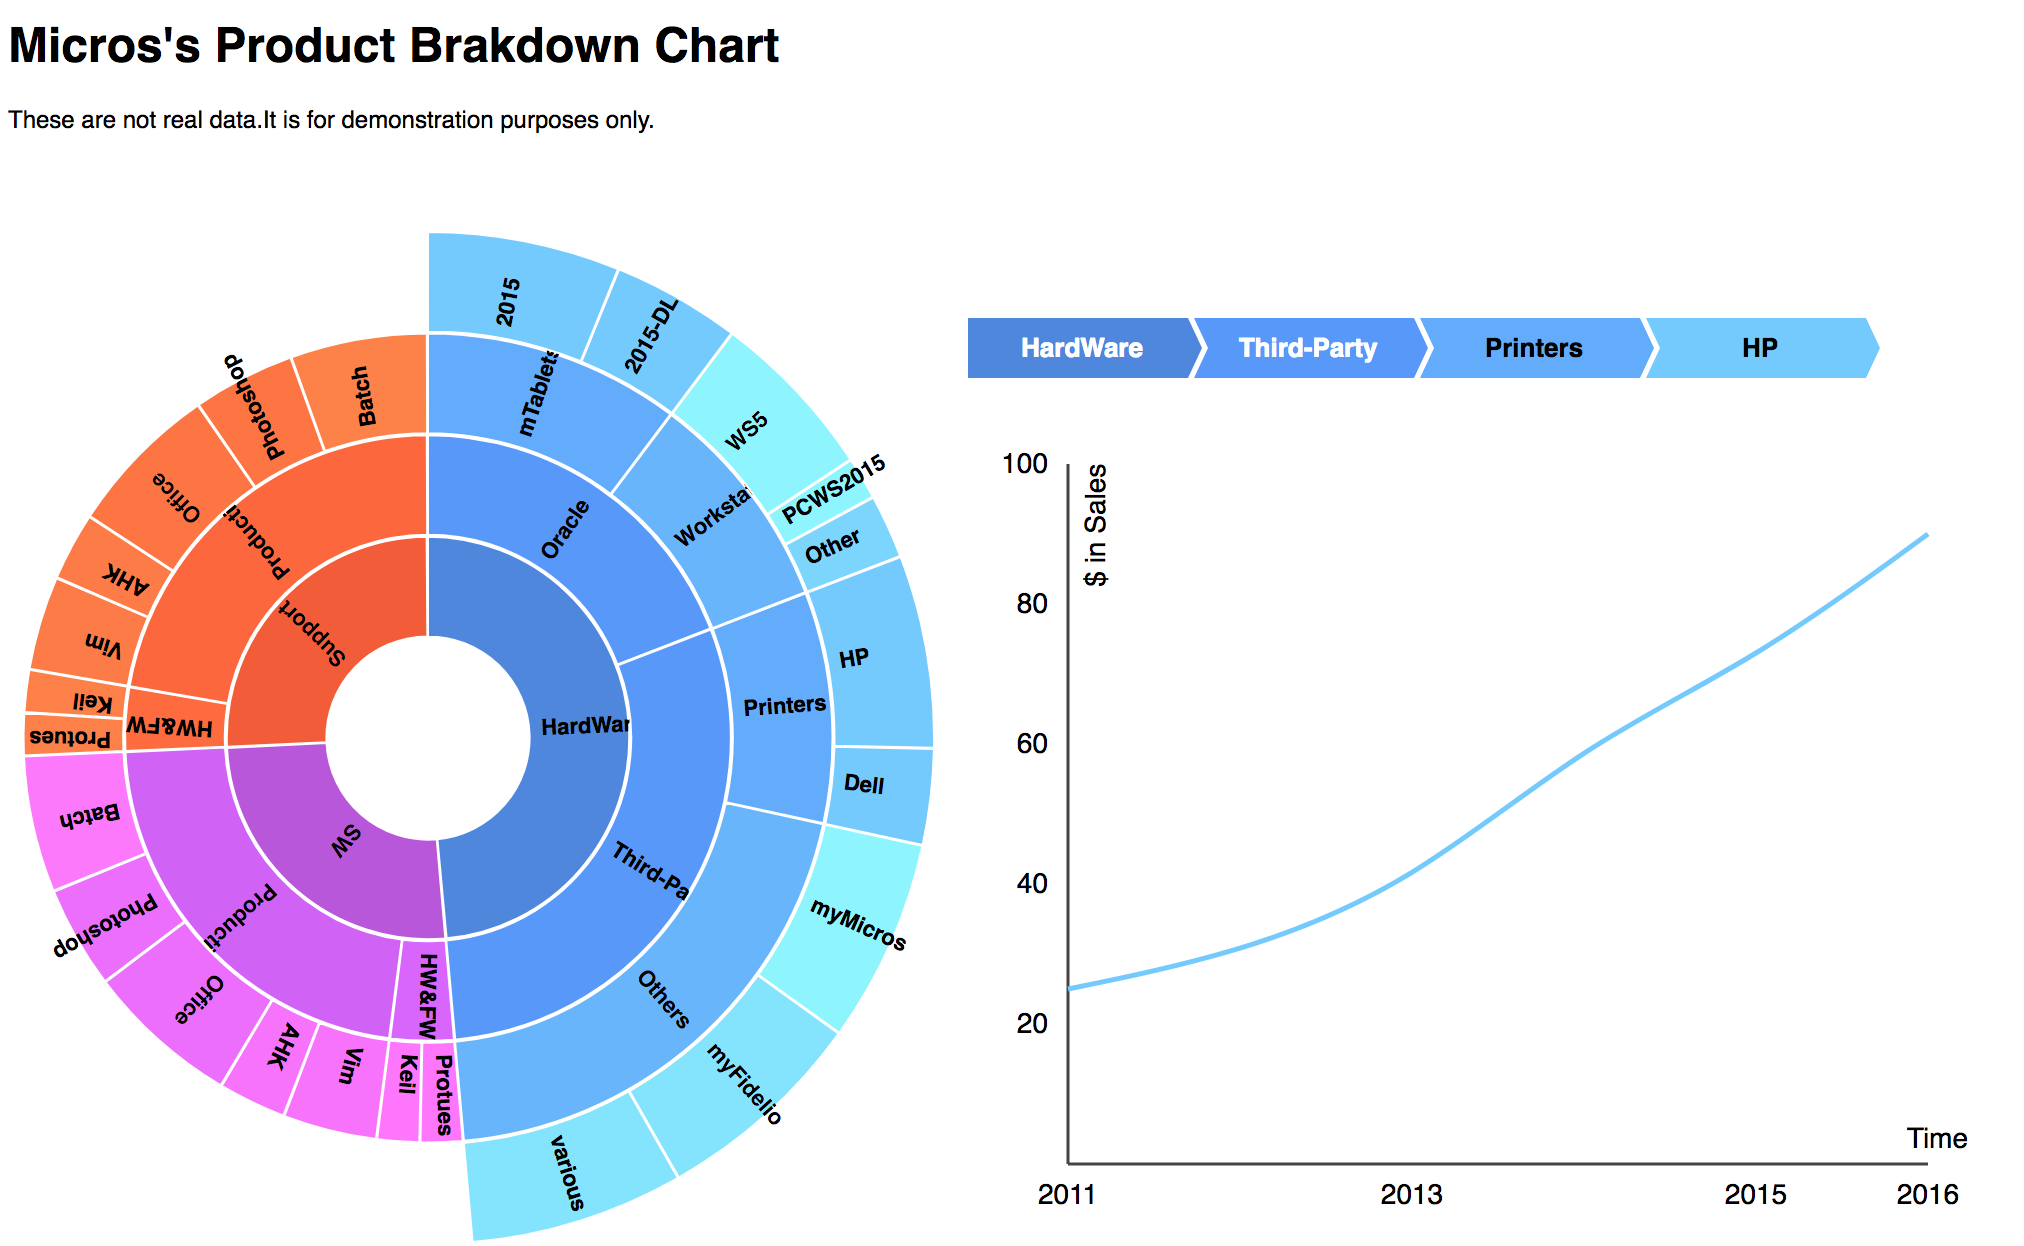
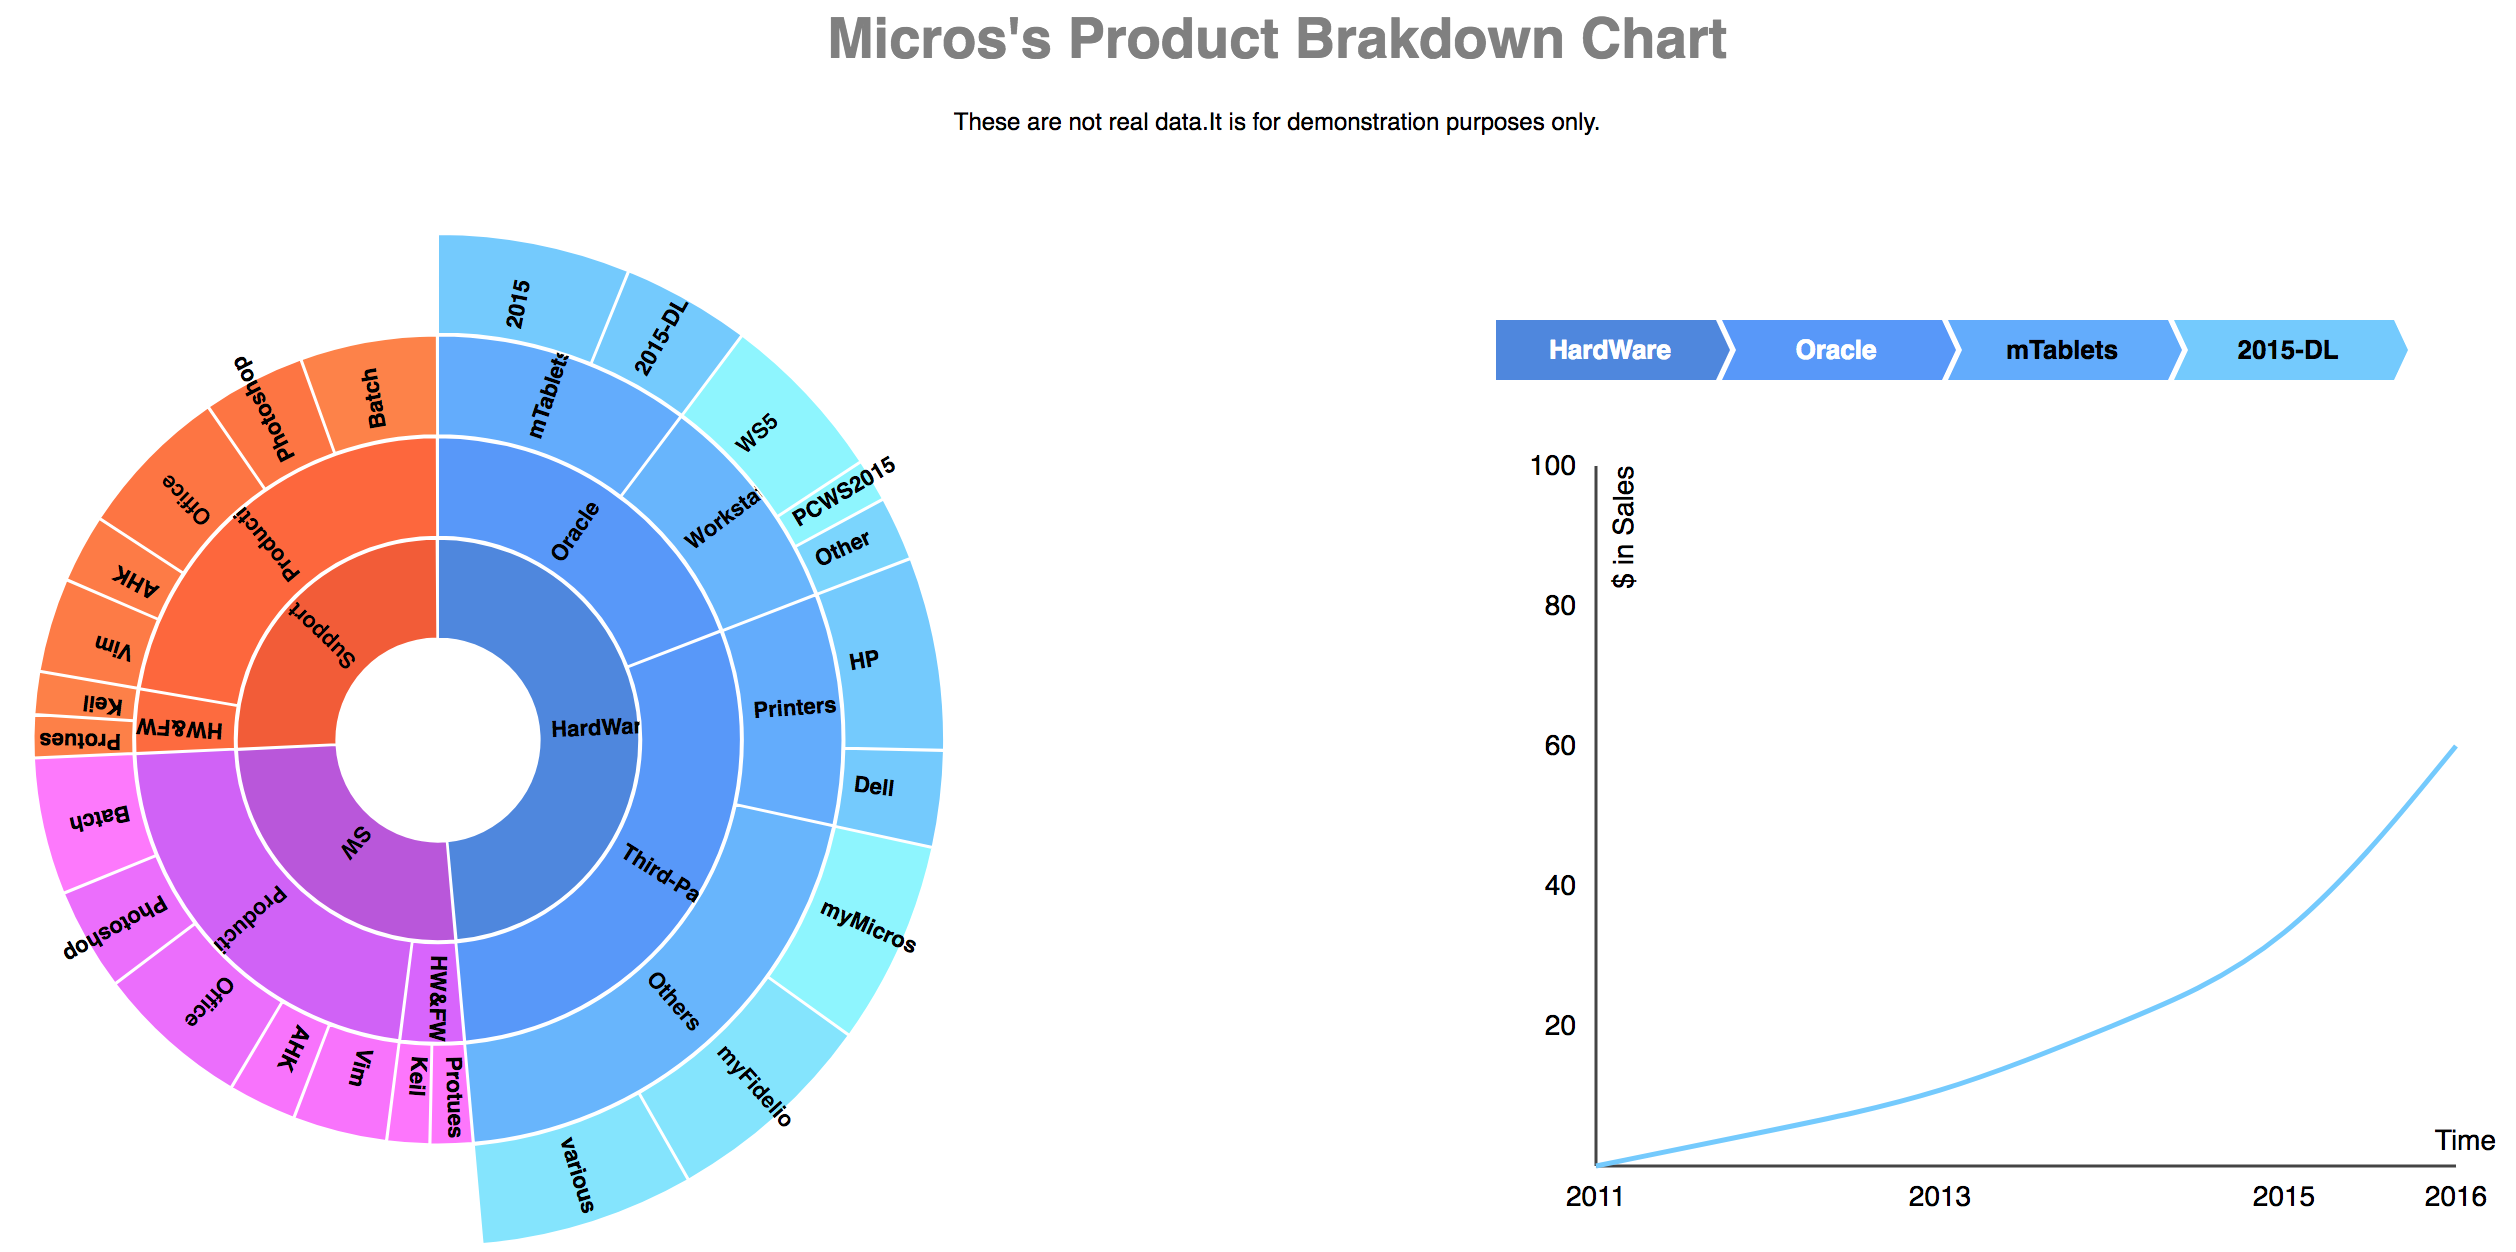
fixing css changes

diff --git a/MindBlowingChart/index.html b/MindBlowingChart/index.html
@@ -26,5 +26,16 @@
       // Hack to make this example display correctly in an iframe on bl.ocks.org
       d3.select(self.frameElement).style("height", "700px");
   </script>
+  <style>
+    body {
+      margin: 0 auto;
+      width: 100%;
+      text-align: center;
+    }
+    h1{
+      color: gray;
+      font-size: 1.75rem;
+    }
+  </style>
   </body>
 </html>

diff --git a/MindBlowingChart/skill.css b/MindBlowingChart/skill.css
@@ -18,7 +18,7 @@ body {
   margin-top: 10px;
 }
 #skillmap .skills-wrapper {
-  margin-top: 10px;
+  margin: 10px;
   overflow: auto;
 }
 #skillmap .skills-sunburst {
